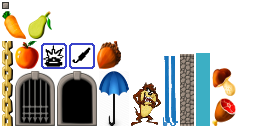
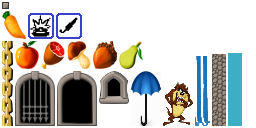
Decorations added

diff --git a/core/src/ru/mitrakov/self/rush/model/Cell.java b/core/src/ru/mitrakov/self/rush/model/Cell.java
@@ -2,6 +2,7 @@ package ru.mitrakov.self.rush.model;
 
 import java.util.Collection;
 import java.util.concurrent.ConcurrentLinkedQueue;
+
 import ru.mitrakov.self.rush.model.object.*;
 
 /**
@@ -88,6 +89,14 @@ public class Cell {
                 return new Waterfall(xy);
             case 0x19:
                 return new WaterfallSafe(xy);
+            /*case 0x1A: only for server
+              case 0x1B: only for server */
+            case 0x1C:
+                return new DecorationStatic(xy);
+            case 0x1D:
+                return new DecorationDynamic(xy);
+            case 0x1E:
+                return new DecorationWarning(xy);
             default:
                 return null;
         }

diff --git a/core/src/ru/mitrakov/self/rush/ui/Gui.java b/core/src/ru/mitrakov/self/rush/ui/Gui.java
@@ -111,7 +111,7 @@ public class Gui extends Actor {
         }
         // static up textures, each with 4 styles
         for (Class clazz : new Class[]{Block.class, LadderTop.class, LadderBottom.class, RopeLine.class, Water.class,
-                Stair.class, Waterfall.class, WaterfallSafe.class}) {
+                Stair.class, Waterfall.class, WaterfallSafe.class, DecorationStatic.class, DecorationWarning.class}) {
             for (int i = 0; i < STYLES_COUNT; i++) {
                 String key = clazz.getSimpleName() + i;
                 TextureRegion texture = atlasUp.findRegion(key);

diff --git a/core/src/ru/mitrakov/self/rush/model/object/DecorationDynamic.java b/core/src/ru/mitrakov/self/rush/model/object/DecorationDynamic.java
@@ -1,0 +1,10 @@
+package ru.mitrakov.self.rush.model.object;
+
+/**
+ * Created by mitrakov on 23.02.2017
+ */
+public class DecorationDynamic extends CellObject {
+    public DecorationDynamic(int xy) {
+        super(0x1D, xy);
+    }
+}

diff --git a/core/src/ru/mitrakov/self/rush/model/object/DecorationWarning.java b/core/src/ru/mitrakov/self/rush/model/object/DecorationWarning.java
@@ -1,0 +1,10 @@
+package ru.mitrakov.self.rush.model.object;
+
+/**
+ * Created by mitrakov on 23.02.2017
+ */
+public class DecorationWarning extends CellObject {
+    public DecorationWarning(int xy) {
+        super(0x1E, xy);
+    }
+}

diff --git a/core/src/ru/mitrakov/self/rush/model/object/DecorationStatic.java b/core/src/ru/mitrakov/self/rush/model/object/DecorationStatic.java
@@ -1,0 +1,10 @@
+package ru.mitrakov.self.rush.model.object;
+
+/**
+ * Created by mitrakov on 23.02.2017
+ */
+public class DecorationStatic extends CellObject {
+    public DecorationStatic(int xy) {
+        super(0x1C, xy);
+    }
+}
